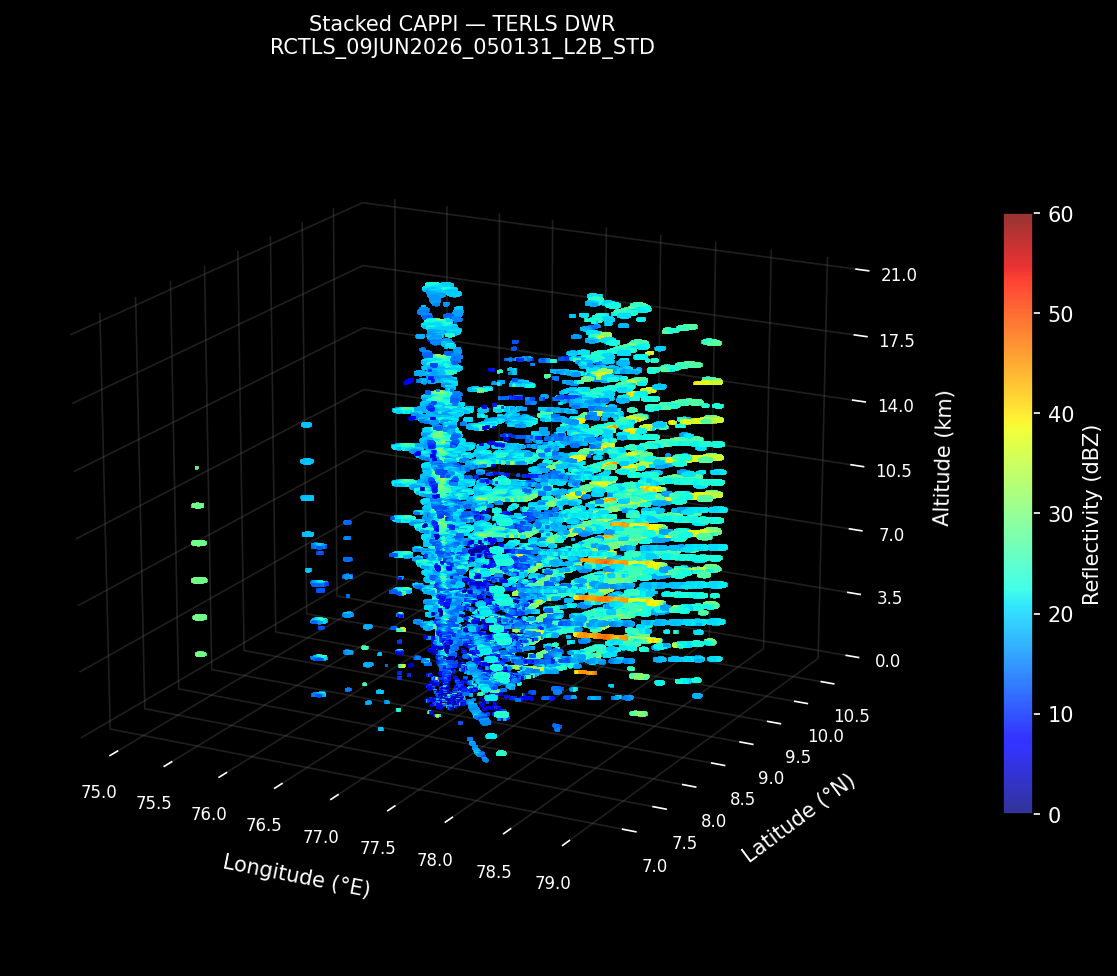
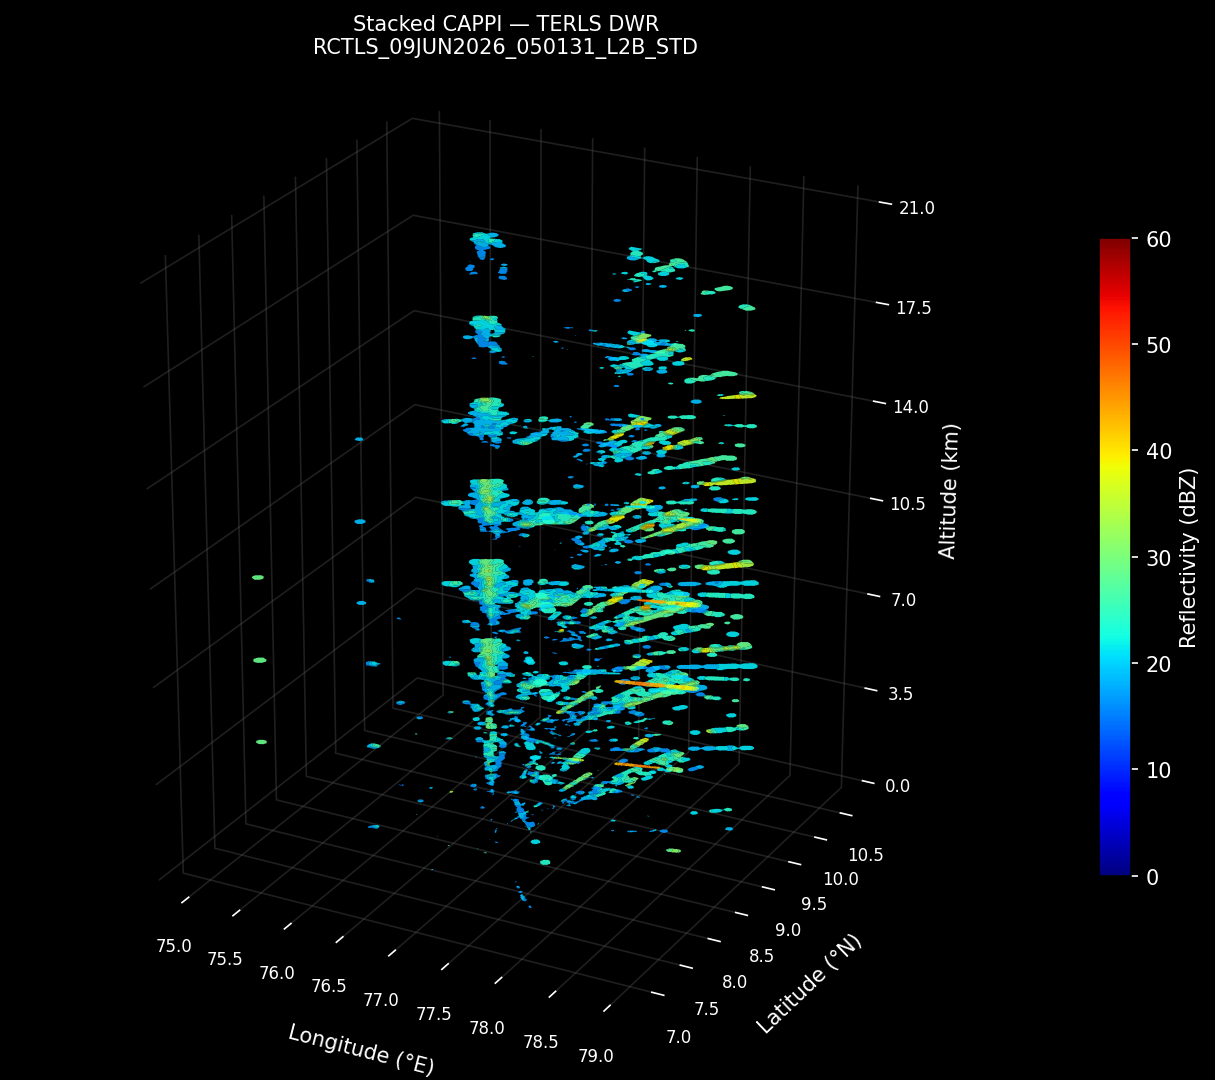
Stacked CAPPI: smooth filled contours instead of scatter dots
- contourf per altitude sheet (pyiwr/IMD-style continuous regions)
- NaN-aware Gaussian pre-smoothing (sigma 1.2) kills single-cell speckle
- steeper camera (elev 24), 1.25x vertical screen aspect, data-fit framing
- defaults: 0-60 dBZ jet range so weak echo reads cyan, cores yellow/red

diff --git a/src/render_stacked_cappi.py b/src/render_stacked_cappi.py
@@ -1,14 +1,14 @@
 """Stacked-CAPPI 3D render — the dark IMD/MOSDAC presentation style.
 
 Reproduces the reference figure: discrete constant-altitude slices (CAPPIs)
-of the reflectivity cube drawn as flat speckled sheets stacked in 3D, on a
-black background, jet colormap, vertical dBZ colorbar on the right, lat/lon
-on the horizontal axes and altitude (km) on the vertical axis.
+of the reflectivity cube drawn as smooth filled-contour sheets stacked in 3D,
+on a black background, jet colormap, vertical dBZ colorbar on the right,
+lat/lon on the horizontal axes and altitude (km) on the vertical axis.
 
-Why stacked layers instead of a continuous cloud: each sheet reads as a map
-("what does the rain field look like at 4 km?") while the stack shows the
-vertical structure — where echo tops sit, how cores tilt with height. It is
-the operational radar-analyst's view of the same 81 x 481 x 481 cube.
+Rendering style: each sheet is a matplotlib filled contour (contourf) drawn
+at its altitude offset — continuous colored regions like the pyiwr / IMD
+figures, not per-cell scatter dots. A NaN-aware Gaussian pre-smoothing pass
+(SMOOTH_SIGMA) removes single-cell speckle so contours stay clean.
 
 Works with both grid flavors:
   - our pyart cubes  (coords z/y/x in meters from the radar)
@@ -28,7 +28,9 @@ from pathlib import Path
 import matplotlib.pyplot as plt
 import numpy as np
 import xarray as xr
+from matplotlib import cm
 from matplotlib.colors import Normalize
+from scipy.ndimage import gaussian_filter
 
 # TERLS radar site
 TERLS_LAT = 8.5374
@@ -40,8 +42,13 @@ OUTPUT_DIR = Path(__file__).resolve().parent.parent / "output"
 # only convective cores reach yellow/red — matching the reference figure.
 DBZ_VMIN = 0.0
 DBZ_VMAX = 60.0
-MAX_POINTS_PER_LAYER = 25_000
-VIEW_ELEV = 18
+CONTOUR_LEVELS = np.arange(DBZ_VMIN, DBZ_VMAX + 2.5, 2.5)
+
+# Gaussian smoothing applied per sheet before contouring (grid cells).
+# 0 = off. ~1.2 removes single-cell speckle without fattening storm cores.
+SMOOTH_SIGMA = 1.2
+
+VIEW_ELEV = 24
 VIEW_AZIM = -62
 
 
@@ -66,44 +73,67 @@ def load_any(nc_path: Path):
     return dbz, z_km, lat_axis, lon_axis
 
 
+def smooth_sheet(sheet: np.ndarray, sigma: float) -> np.ndarray:
+    """NaN-aware Gaussian smoothing: smooths values without bleeding NaN in,
+    and only extends slightly past the original echo edges."""
+    valid = np.isfinite(sheet)
+    if sigma <= 0 or not valid.any():
+        return sheet
+    filled = np.where(valid, sheet, 0.0)
+    num = gaussian_filter(filled, sigma)
+    den = gaussian_filter(valid.astype(np.float32), sigma)
+    out = np.full_like(sheet, np.nan)
+    ok = den > 0.3        # keep cells with enough real-data support nearby
+    out[ok] = num[ok] / den[ok]
+    return out
+
+
 def render(nc_path: Path, layer_step: int, dbz_floor: float, out_png: Path) -> Path:
     print(f"Loading {nc_path.name}...")
     dbz, z_km, lat_axis, lon_axis = load_any(nc_path)
     LON2, LAT2 = np.meshgrid(lon_axis, lat_axis)   # (lat, lon) grids
 
     layer_idx = list(range(1, dbz.shape[0], layer_step))
-    print(f"  plotting {len(layer_idx)} CAPPI sheets "
+    print(f"  contouring {len(layer_idx)} CAPPI sheets "
           f"({z_km[layer_idx[0]]:.2f} -> {z_km[layer_idx[-1]]:.2f} km, "
-          f"every {layer_step * 0.25:.1f} km), floor {dbz_floor:.0f} dBZ")
+          f"every {layer_step * 0.25:.1f} km), floor {dbz_floor:.0f} dBZ, "
+          f"smooth sigma={SMOOTH_SIGMA}")
 
     # ---- dark style ----
-    fig = plt.figure(figsize=(10, 8), facecolor="black")
+    fig = plt.figure(figsize=(11, 8.5), facecolor="black")
     ax = fig.add_subplot(111, projection="3d", facecolor="black")
     for pane in (ax.xaxis, ax.yaxis, ax.zaxis):
         pane.set_pane_color((0, 0, 0, 1))
         pane._axinfo["grid"]["color"] = (0.35, 0.35, 0.35, 0.35)
 
     norm = Normalize(vmin=DBZ_VMIN, vmax=DBZ_VMAX)
-    rng = np.random.default_rng(11)
-    sc = None
-    total = 0
+    n_drawn = 0
+    lat_min = lon_min = np.inf
+    lat_max = lon_max = -np.inf
     for k in layer_idx:
-        sheet = dbz[k]
-        keep = np.isfinite(sheet) & (sheet >= dbz_floor)
-        n = int(keep.sum())
-        if n == 0:
+        sheet = smooth_sheet(dbz[k], SMOOTH_SIGMA)
+        sheet = np.where(sheet >= dbz_floor, sheet, np.nan)
+        masked = np.ma.masked_invalid(sheet)
+        if masked.count() == 0:
             continue
-        lons, lats, vals = LON2[keep], LAT2[keep], sheet[keep]
-        if n > MAX_POINTS_PER_LAYER:
-            sel = rng.choice(n, MAX_POINTS_PER_LAYER, replace=False)
-            lons, lats, vals = lons[sel], lats[sel], vals[sel]
-        total += lons.size
-        sc = ax.scatter(
-            lons, lats, np.full(lons.size, z_km[k]),
-            c=vals, cmap="jet", norm=norm,
-            s=2.5, marker="s", alpha=0.8, linewidths=0, depthshade=False,
+        valid = np.isfinite(sheet)
+        lat_min = min(lat_min, LAT2[valid].min()); lat_max = max(lat_max, LAT2[valid].max())
+        lon_min = min(lon_min, LON2[valid].min()); lon_max = max(lon_max, LON2[valid].max())
+        ax.contourf(
+            LON2, LAT2, masked,
+            levels=CONTOUR_LEVELS, cmap="jet", norm=norm,
+            offset=float(z_km[k]), zdir="z",
+            alpha=0.9, antialiased=True,
         )
-    print(f"  {total:,} points drawn")
+        n_drawn += 1
+    print(f"  {n_drawn} sheets drawn")
+
+    # Frame the data, not the full 480 km grid — fills the figure like the
+    # reference instead of leaving dead space around small storms.
+    if np.isfinite(lat_min):
+        pad = 0.15
+        ax.set_xlim(lon_min - pad, lon_max + pad)
+        ax.set_ylim(lat_min - pad, lat_max + pad)
 
     ax.set_xlabel("Longitude (°E)", color="white", labelpad=8)
     ax.set_ylabel("Latitude (°N)", color="white", labelpad=8)
@@ -112,12 +142,14 @@ def render(nc_path: Path, layer_step: int, dbz_floor: float, out_png: Path) -> P
     ax.set_zticks([0, 3.5, 7, 10.5, 14, 17.5, 21])
     ax.tick_params(colors="white", labelsize=8)
     ax.view_init(elev=VIEW_ELEV, azim=VIEW_AZIM)
+    # Stretch the vertical screen axis so inter-sheet gaps read clearly.
+    ax.set_box_aspect((1.0, 1.0, 1.25))
 
-    if sc is not None:
-        cb = fig.colorbar(sc, ax=ax, shrink=0.65, pad=0.08)
-        cb.set_label("Reflectivity (dBZ)", color="white")
-        cb.ax.yaxis.set_tick_params(color="white")
-        plt.setp(cb.ax.get_yticklabels(), color="white")
+    sm = cm.ScalarMappable(norm=norm, cmap="jet")
+    cb = fig.colorbar(sm, ax=ax, shrink=0.65, pad=0.08)
+    cb.set_label("Reflectivity (dBZ)", color="white")
+    cb.ax.yaxis.set_tick_params(color="white")
+    plt.setp(cb.ax.get_yticklabels(), color="white")
 
     ax.set_title(
         f"Stacked CAPPI — TERLS DWR\n{nc_path.stem.replace('_gridded', '')}",